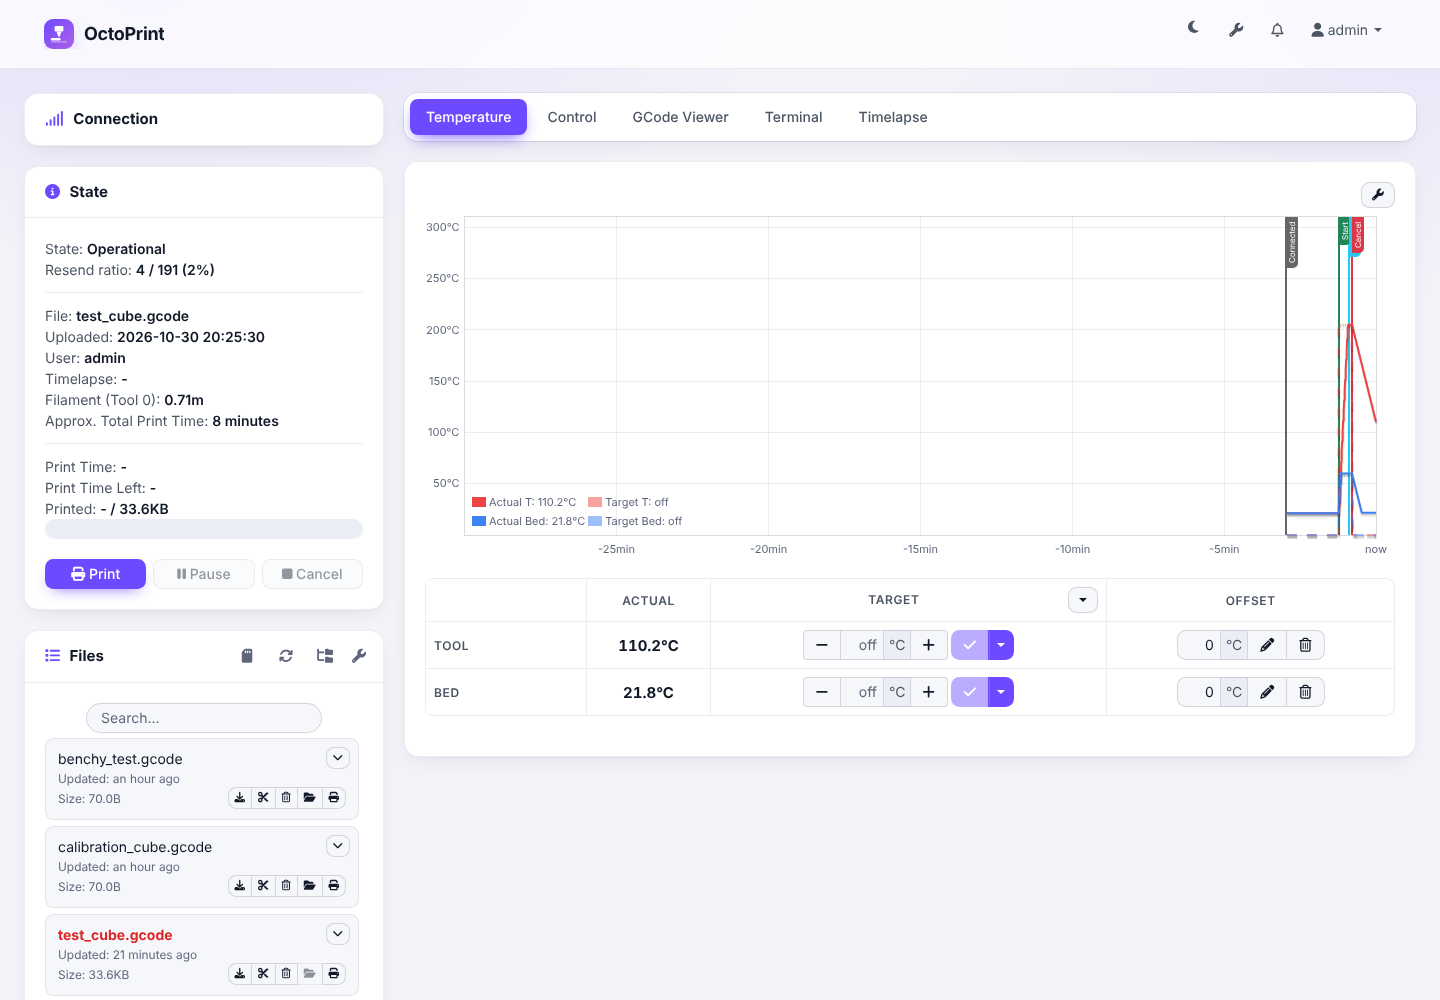
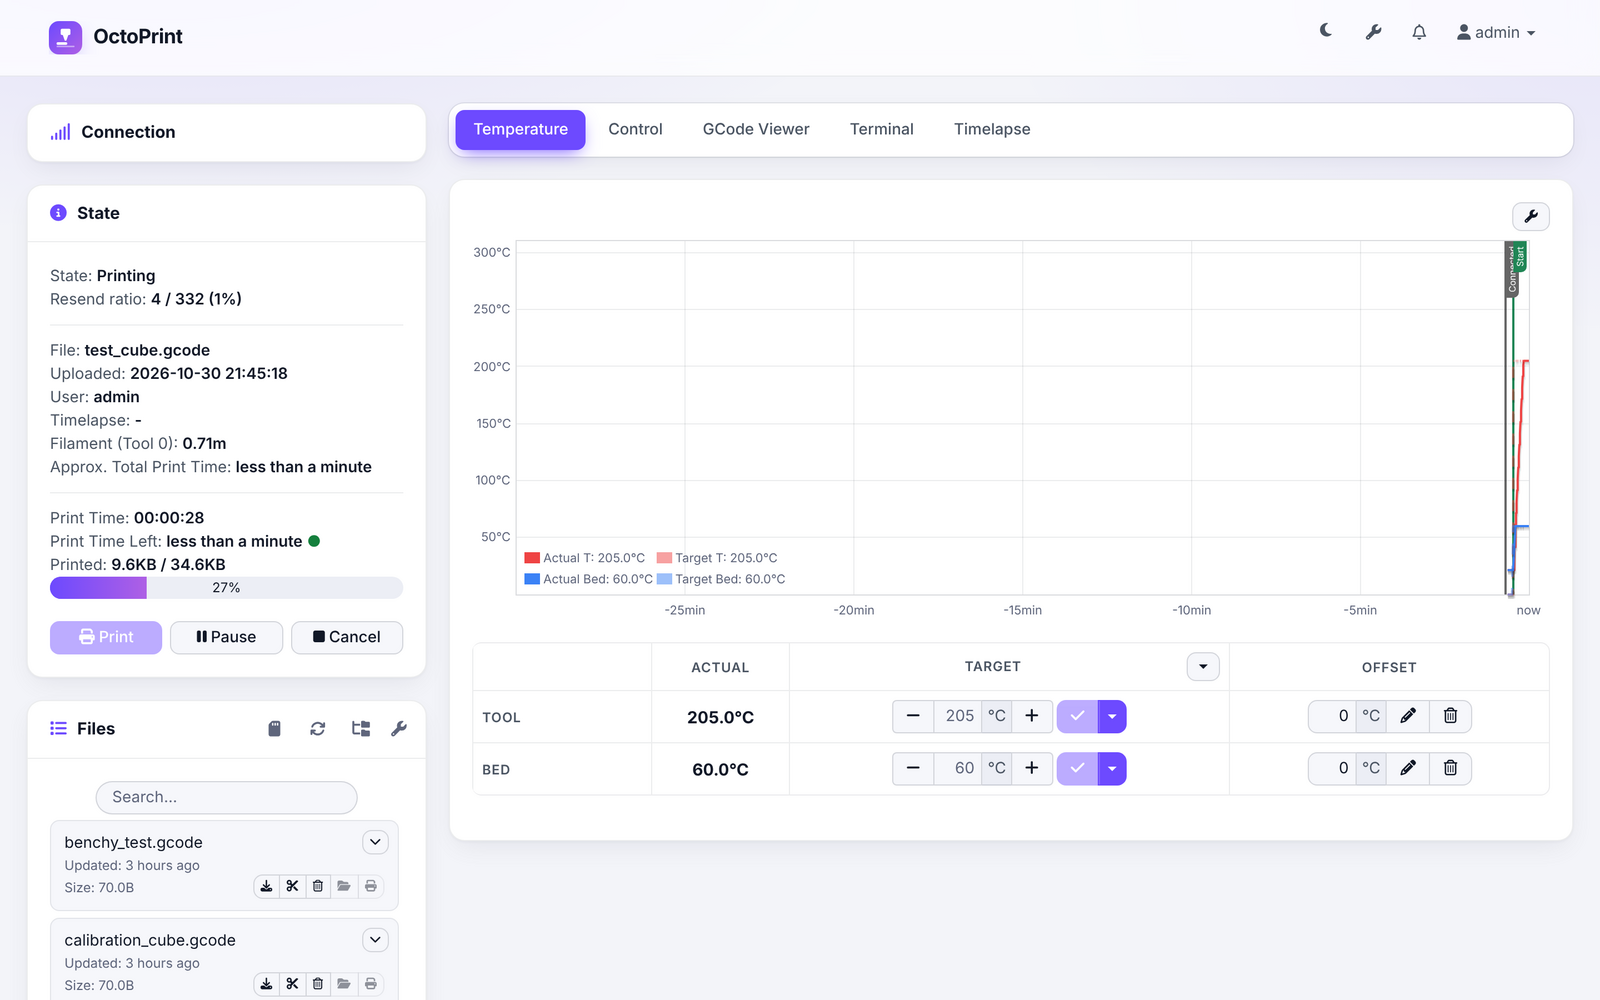
Rewrite the README in English with fresh screenshots
New README: features, screenshots, installation, settings reference,
compatibility (tested plugins, UI Customizer, Themeify, TouchUI),
languages, and development notes (structure, theming, translations,
tests). Screenshots retaken in English with the Nozzle logo during a
simulated print, plus a split light/dark hero image and a logo SVG.

diff --git a/README.md b/README.md
@@ -1,109 +1,195 @@
-# OctoPrint-Aurora
+<div align="center">
 
-Une refonte complète du design de l'interface web d'OctoPrint : cartes modernes, thème clair/sombre, couleur d'accent personnalisable et mise en page fluide. Toutes les fonctionnalités d'OctoPrint et des autres plugins restent intactes.
+<img src="docs/logo.svg" width="88" height="88" alt="Aurora UI logo">
 
-| Avant | Après (clair) | Après (sombre) |
-| --- | --- | --- |
-| ![Avant](docs/before.png) | ![Clair](docs/main-light.png) | ![Sombre](docs/main-dark.png) |
+# Aurora UI
 
-| Réglages | Connexion | Mobile |
-| --- | --- | --- |
-| ![Réglages](docs/settings-light.png) | ![Connexion](docs/login-light-1440.png) | ![Mobile](docs/mobile-dark.png) |
+**A complete redesign of the OctoPrint web interface.**<br>
+Light and dark themes, your own accent color, a cleaner layout, and nothing to relearn: every OctoPrint feature and plugin stays where it was.
 
-## Fonctionnalités
+[![License: AGPL v3](https://img.shields.io/badge/license-AGPL--3.0-6d4aff)](LICENSE)
+[![OctoPrint](https://img.shields.io/badge/OctoPrint-1.11-6d4aff)](https://octoprint.org)
+[![Python](https://img.shields.io/badge/python-3.7%2B-6d4aff)](pyproject.toml)
+[![Languages](https://img.shields.io/badge/languages-7-6d4aff)](#languages)
 
-- **Nouveau design de toute l'interface** : barre de navigation translucide, panneaux en cartes, onglets en pilules, boutons, formulaires, tableaux, fenêtres modales, menus, notifications, terminal et liste de fichiers.
-- **Thème clair, sombre ou automatique** (suit le système). Un bouton lune/soleil dans la barre de navigation permet à chaque navigateur de forcer son choix.
-- **Couleur d'accent** : 9 préréglages ou n'importe quelle couleur. La couleur du texte sur l'accent (blanc ou noir) est calculée automatiquement pour rester lisible.
-- **Graphique de température redessiné** : couleurs des courbes et de la grille adaptées au thème, filigrane OctoPrint masquable.
-- **Mise en page** : barre latérale à gauche ou à droite, densité confortable ou compacte, pleine largeur sur grands écrans, rayon des coins réglable.
-- **Logo « Buse »** : une buse qui dépose un cordon de filament, sur une tuile aux couleurs de l'accent, dans la barre du haut, sur la page de connexion et en icône d'onglet. Le logo original d'OctoPrint ou le texte seul restent disponibles dans les réglages.
-- **Interface traduite** en français, espagnol, portugais, russe, allemand et italien (en plus de l'anglais) : la langue suit celle choisie dans OctoPrint.
-- **Page de connexion** stylée elle aussi (via le hook `octoprint.theming.login`).
-- **Aperçu en direct** dans les réglages : rien n'est conservé tant que vous n'avez pas cliqué sur *Save*, et un *Close* annule l'aperçu.
-- **Couleur d'instance** : la couleur choisie dans *Settings → Appearance* (utile pour distinguer plusieurs imprimantes) s'affiche en fin liseré en haut de l'écran, ou peut servir de couleur d'accent.
-- **Désactivable d'un clic** : toutes les règles sont limitées à `html.aurora`, donc décocher « Enable » restaure instantanément le design d'origine.
+<img src="docs/hero.png" alt="Aurora UI in the light theme (left) and the dark theme (right) during a print">
+
+</div>
+
+## Features
+
+- **Redesigned from top to bottom.** Card panels, pill tabs, modern buttons and forms, tables, dialogs, menus, notifications, terminal and file list.
+- **Light, dark or automatic theme.** Automatic follows your operating system. A moon/sun button in the navbar lets each browser pick its own.
+- **Your accent color.** Nine presets or any color you like. Text on colored buttons switches between white and black so it always stays readable.
+- **Themed graphs.** The temperature graph and the GCode viewer are drawn in the theme colors, so the dark theme stays dark everywhere.
+- **Layout options.** Sidebar on the left or right, comfortable or compact density, full width on large screens, adjustable corner radius.
+- **A styled login page**, using the same theme and accent color.
+- **Tells your printers apart.** The instance color from *Settings › Appearance* shows as a thin stripe at the top of the screen, or becomes the accent color.
+- **Live preview.** Changes in the settings apply as you make them, and are reverted if you close without saving.
+- **Accessible.** Text contrast meets WCAG AA (4.5:1) in both themes, on every OctoPrint page.
+- **Off in one click.** Untick *Enable* and the stock interface is back instantly.
+
+## Screenshots
+
+| Dark theme | Light theme |
+| --- | --- |
+| ![Dark theme during a print](docs/main-dark.png) | ![Light theme during a print](docs/main-light.png) |
+| **GCode viewer** | **Settings, with live preview** |
+| ![GCode viewer in the dark theme](docs/gcode-dark.png) | ![Aurora UI settings](docs/settings.png) |
+
+<table>
+  <tr>
+    <th>Login page</th>
+    <th>Phone</th>
+    <th>Before (stock OctoPrint)</th>
+  </tr>
+  <tr>
+    <td><img src="docs/login-dark.png" alt="Login page, dark theme"><br><img src="docs/login-light.png" alt="Login page, light theme"></td>
+    <td><img src="docs/mobile-dark.png" width="260" alt="Aurora UI on a phone"></td>
+    <td><img src="docs/before.png" alt="The stock OctoPrint interface, for comparison"></td>
+  </tr>
+</table>
 
 ## Installation
 
-Dans OctoPrint, ouvrez *Settings → Plugin Manager → Get More…* et collez cette adresse dans « … from URL » :
+In OctoPrint, open **Settings › Plugin Manager › Get More…**, paste this URL into **… from URL** and click **Install**:
 
 ```
 https://github.com/Limoniak/OctoPrint-Aurora/archive/refs/heads/main.zip
 ```
 
-Ou en ligne de commande, dans l'environnement Python d'OctoPrint :
+Restart OctoPrint when asked, then reload the page.
+
+Or from the command line, in OctoPrint's Python environment:
 
 ```bash
 pip install https://github.com/Limoniak/OctoPrint-Aurora/archive/refs/heads/main.zip
 ```
 
-Les mises à jour sont ensuite proposées automatiquement par OctoPrint (*Software Update*) à chaque nouvelle version publiée sur GitHub.
+Once installed, new versions published on GitHub are offered by OctoPrint's own **Software Update**.
 
-Pour le développement :
+## Settings
+
+Everything lives in **Settings › Aurora UI**.
+
+| Setting | Options | Default |
+| --- | --- | --- |
+| Enable the Aurora theme | on / off | on |
+| Theme | Auto, Light, Dark | Auto |
+| Accent color | 9 presets or a custom color | violet `#6d4aff` |
+| Logo | Nozzle, OctoPrint (original), Text only | Nozzle |
+| Instance color | Thin stripe at the top, Use as accent color, Ignore | Thin stripe |
+| Corner radius | 0 to 28 px | 14 px |
+| Effects | Background glow and translucent navbar · Themed temperature graph · OctoPrint watermark behind the graph | first two on |
+| Density | Comfortable, Compact | Comfortable |
+| Sidebar position | Left, Right | Left |
+| Full width on large screens | on / off | on |
+
+The navbar's moon/sun button overrides the theme for the current browser only, so a tablet next to the printer can stay dark while your desktop follows the system.
+
+## Compatibility
+
+**OctoPrint.** Developed and tested on OctoPrint 1.11.8, including the setup wizard, every settings page, the About dialog, a full simulated print (heating, printing, pause, resume, cancel) and the GCode viewer.
+
+**Browsers.** Full rendering on Chrome/Edge 111+, Firefox 113+ and Safari 16.2+. Older browsers, such as the one on a printer's touch screen, get the same theme with a few tinted backgrounds replaced by plain ones.
+
+**Third-party plugins.** Tested together, on OctoPrint 1.11.8, with the ten most used plugins according to OctoPrint's official usage statistics (October 2026):
+
+> Bed Level Visualizer · PrintTimeGenius · Firmware Updater · Dashboard · UI Customizer · Slicer Thumbnails · Cancelobject · DisplayLayerProgress · Themeify · Preheat Button
+
+as well as Octolapse, OctoEverywhere and Obico. Their tabs, panels and settings pick up the theme, with no JavaScript errors and readable contrast in both themes. A few elements keep the colors their plugin forces on purpose: Obico's branded panel, Octolapse's preview box and warning label, and Dashboard's webcam buttons and chart labels.
+
+| Plugin | How Aurora handles it |
+| --- | --- |
+| **UI Customizer** | Fully supported. UI Customizer keeps its layout (columns, widgets, fixed header and footer, settings menu) and Aurora provides the colors. |
+| **Themeify** | Another complete theme: running both gives mixed results. Aurora shows a notice when both are active, so you can disable one. |
+| **TouchUI** | Aurora steps aside in any browser where TouchUI is active, and comes back when it is turned off. |
+
+## Languages
+
+The plugin's own interface is available in English, French, Spanish, Portuguese (Portugal), Russian, German and Italian, and follows the language chosen in OctoPrint.
+
+Want to add or fix a translation? See [Translations](#translations) below. Pull requests are welcome.
+
+## Development
+
+```
+octoprint_aurora/
+├── __init__.py                 settings, assets, templates, login stylesheet route, hooks
+├── static/
+│   ├── css/aurora.css          the theme: color tokens, then the components
+│   ├── js/aurora.js            applies the theme, themes the graphs, settings view model
+│   └── img/                    the Nozzle logo and OctoPrint's original logo
+├── templates/                  settings page, navbar button, login stylesheet
+└── translations/               de, es, fr, it, pt, ru (.po and compiled .mo)
+tests/
+├── test_plugin.py              unit tests (pytest)
+├── e2e/                        browser tests (Playwright)
+└── run_e2e.sh                  starts a throwaway OctoPrint and runs the browser tests
+```
+
+For a development install:
 
 ```bash
 pip install -e .
 ```
 
-Redémarrez ensuite OctoPrint. Testé avec OctoPrint 1.11.8 sous Python 3.13.
+### How the theme works
 
-## Structure
+- **Scoped.** Every rule starts with `html.aurora`, so disabling the theme removes it completely.
+- **Tokens.** Colors are CSS custom properties (`--a-bg`, `--a-surface`, `--a-text`, …) defined once for the light theme and once for the dark theme at the top of `aurora.css`. The login page reads the same two blocks, so there is a single place to edit.
+- **Applied by script.** `aurora.js` sets the `aurora` class, the `data-aurora-*` attributes and the accent-derived colors on `<html>`. It caches the last settings in `localStorage`, so the theme is there before the settings have even loaded.
+- **Graphs.** The temperature graph (Flot) and the GCode viewer draw on a canvas; `aurora.js` passes them the theme colors.
+- **Plugin-friendly.** Base rules (links, headings, code, labels) are wrapped in `:where()` so they never outweigh a plugin's own classes.
 
-```
-octoprint_aurora/
-├── __init__.py                     # plugin : réglages, assets, templates, route /login.css
-├── static/
-│   ├── css/aurora.css              # le thème (tokens --a-* + composants)
-│   ├── js/aurora.js                # application du thème, graphique, view model
-│   └── img/
-│       ├── brand.svg               # logo « Buse » (aussi dessiné dans aurora.js pour l'icône d'onglet)
-│       └── tentacle.png            # logo d'origine d'OctoPrint, version verte
-└── templates/
-    ├── aurora_settings.jinja2      # page de réglages du plugin
-    ├── aurora_navbar.jinja2        # bouton clair/sombre
-    └── aurora_login_css.jinja2     # feuille de style de la page de connexion
-└── translations/<langue>/LC_MESSAGES/messages.{po,mo}   # fr, es, pt, ru, de, it
-```
+### Customizing colors
 
-### Comment ça marche
+Edit the variables in the `html.aurora[data-aurora-theme="light"]` and `html.aurora[data-aurora-theme="dark"]` blocks at the top of `octoprint_aurora/static/css/aurora.css`. The login page picks them up automatically.
 
-- `aurora.js` pose sur `<html>` la classe `aurora` et les attributs `data-aurora-theme`, `data-aurora-density` et `data-aurora-sidebar`, ainsi que les variables `--a-accent`, `--a-on-accent` et `--a-radius`. La dernière configuration est mise en cache dans `localStorage` pour l'appliquer dès le chargement, sans afficher brièvement l'ancien thème.
-- `aurora.css` définit les couleurs du thème (`--a-bg`, `--a-surface`, `--a-text`…) pour le clair et le sombre, puis stylise les composants Bootstrap 2 d'OctoPrint à partir de ces variables. La mise en page passe en CSS Grid.
-- Le graphique de température est dessiné dans un canvas par Flot : `aurora.js` enveloppe `$.plot` (uniquement pour `#temperature-graph`) pour y injecter les couleurs du thème.
+### Translations
 
-### Personnaliser
-
-Pour modifier une couleur du thème, changez la variable correspondante dans les blocs `html.aurora[data-aurora-theme="light"]` / `"dark"` en haut de `aurora.css`. La page de connexion lit ces mêmes blocs au moment où elle est servie : il n'y a rien à reporter ailleurs.
-
-## Traductions
-
-Les textes sont extraits avec Babel (installé avec OctoPrint). Après avoir modifié un texte dans un template ou dans `aurora.js` :
+Strings are extracted with Babel, which comes with OctoPrint. After changing a string in a template or in `aurora.js`:
 
 ```bash
 pybabel extract -F babel.cfg -o translations/messages.pot --no-location --omit-header .
 pybabel update -i translations/messages.pot -d octoprint_aurora/translations
 ```
 
-Complétez les nouvelles entrées des fichiers `messages.po`, puis compilez :
+Fill in the new entries of each `messages.po`, then compile:
 
 ```bash
 pybabel compile -d octoprint_aurora/translations
 ```
 
-Les fichiers `.po` doivent rester à côté des `.mo` : OctoPrint lit les `.po` pour les textes JavaScript.
+Keep the `.po` files next to the `.mo` files: OctoPrint reads the `.po` files for the JavaScript strings. To add a language:
 
-Pour ajouter une langue : `pybabel init -i translations/messages.pot -d octoprint_aurora/translations -l <code>`.
+```bash
+pybabel init -i translations/messages.pot -d octoprint_aurora/translations -l <code>
+```
 
-## Compatibilité
+### Tests
 
-- **Navigateurs** : rendu complet sur Chrome/Edge 111+, Firefox 113+ et Safari 16.2+. Les navigateurs plus anciens (par exemple celui d'un écran tactile branché sur l'imprimante) affichent le même thème, avec quelques fonds teintés remplacés par des fonds unis. Le flou de la barre de navigation est simplement ignoré quand il n'est pas pris en charge.
-- **Accessibilité** : les textes respectent le contraste WCAG AA (4,5:1) dans les deux thèmes, y compris les liens et les boutons colorés. Les 9 couleurs d'accent proposées gardent un texte blanc lisible. Pour une couleur personnalisée, le texte des boutons passe en blanc ou en noir selon ce qui contraste le mieux.
-- **Onglets d'OctoPrint** : Température (graphique aux couleurs du thème), Contrôle (webcam), GCode Viewer (fond, grille et lignes du modèle suivent le thème), Terminal, Timelapse, assistant de premier démarrage et toutes les pages des réglages.
-- **Plugins tiers testés** : les 10 plugins les plus utilisés selon les statistiques officielles d'OctoPrint (instances actives, octobre 2026) : Bed Level Visualizer, PrintTimeGenius, Firmware Updater, Dashboard, UI Customizer, Slicer Thumbnails, Cancelobject, DisplayLayerProgress, Themeify et Preheat Button. Octolapse, OctoEverywhere et Obico ont aussi été testés. Tous ont été installés ensemble sur OctoPrint 1.11.8. Leurs onglets, panneaux et réglages prennent le thème, sans erreur JavaScript, avec un contraste conforme dans les deux thèmes. Les seules exceptions sont des choix de design des plugins eux-mêmes : le panneau à la marque d'Obico, l'encadré d'aperçu et l'étiquette « USE AT YOUR OWN RISK » d'Octolapse, les boutons de webcam et les graduations de graphique de Dashboard (couleurs forcées par le plugin). Les règles de base d'Aurora (liens, titres, code) ont une priorité volontairement faible, pour laisser les plugins styliser leurs propres éléments.
-- **UI Customizer** : compatible. UI Customizer garde sa disposition (colonnes, widgets, barre du haut et pied de page fixes, menu des réglages) et Aurora fournit les couleurs. Note technique : UI Customizer désactive les règles CSS des plugins qui contiennent `#navbar .navbar-inner .nav`, c'est pourquoi Aurora écrit ces sélecteurs sous la forme `#navbar > .navbar-inner .nav`.
-- **Themeify** : c'est un autre thème complet, et il s'active tout seul à son installation. Utiliser les deux en même temps donne un résultat incohérent. Aurora affiche alors une notification au chargement de la page (une fois par session) et un avertissement dans ses réglages : désactivez l'un des deux.
+Unit tests, in an environment where OctoPrint is installed:
 
-## Licence
+```bash
+pip install pytest
+pytest tests
+```
 
-AGPL-3.0-or-later, comme OctoPrint.
+They also check that the copies of shared data stay in sync (instance colors, default settings, accent presets) and that every translation is complete.
+
+Browser tests, against a real OctoPrint with the virtual printer:
+
+```bash
+pip install .
+cd tests/e2e && npm install && npx playwright install chromium && cd ../..
+tests/run_e2e.sh
+```
+
+They check the contrast of every page in both themes, run a simulated print, and go through the settings (live preview, revert, save, reload, disable). OctoPrint refuses to run as root, so run them as a regular user.
+
+## License
+
+[AGPL-3.0-or-later](LICENSE), like OctoPrint itself.
+
+The "OctoPrint (original)" logo option uses OctoPrint's own tentacle image, which belongs to the OctoPrint project.
